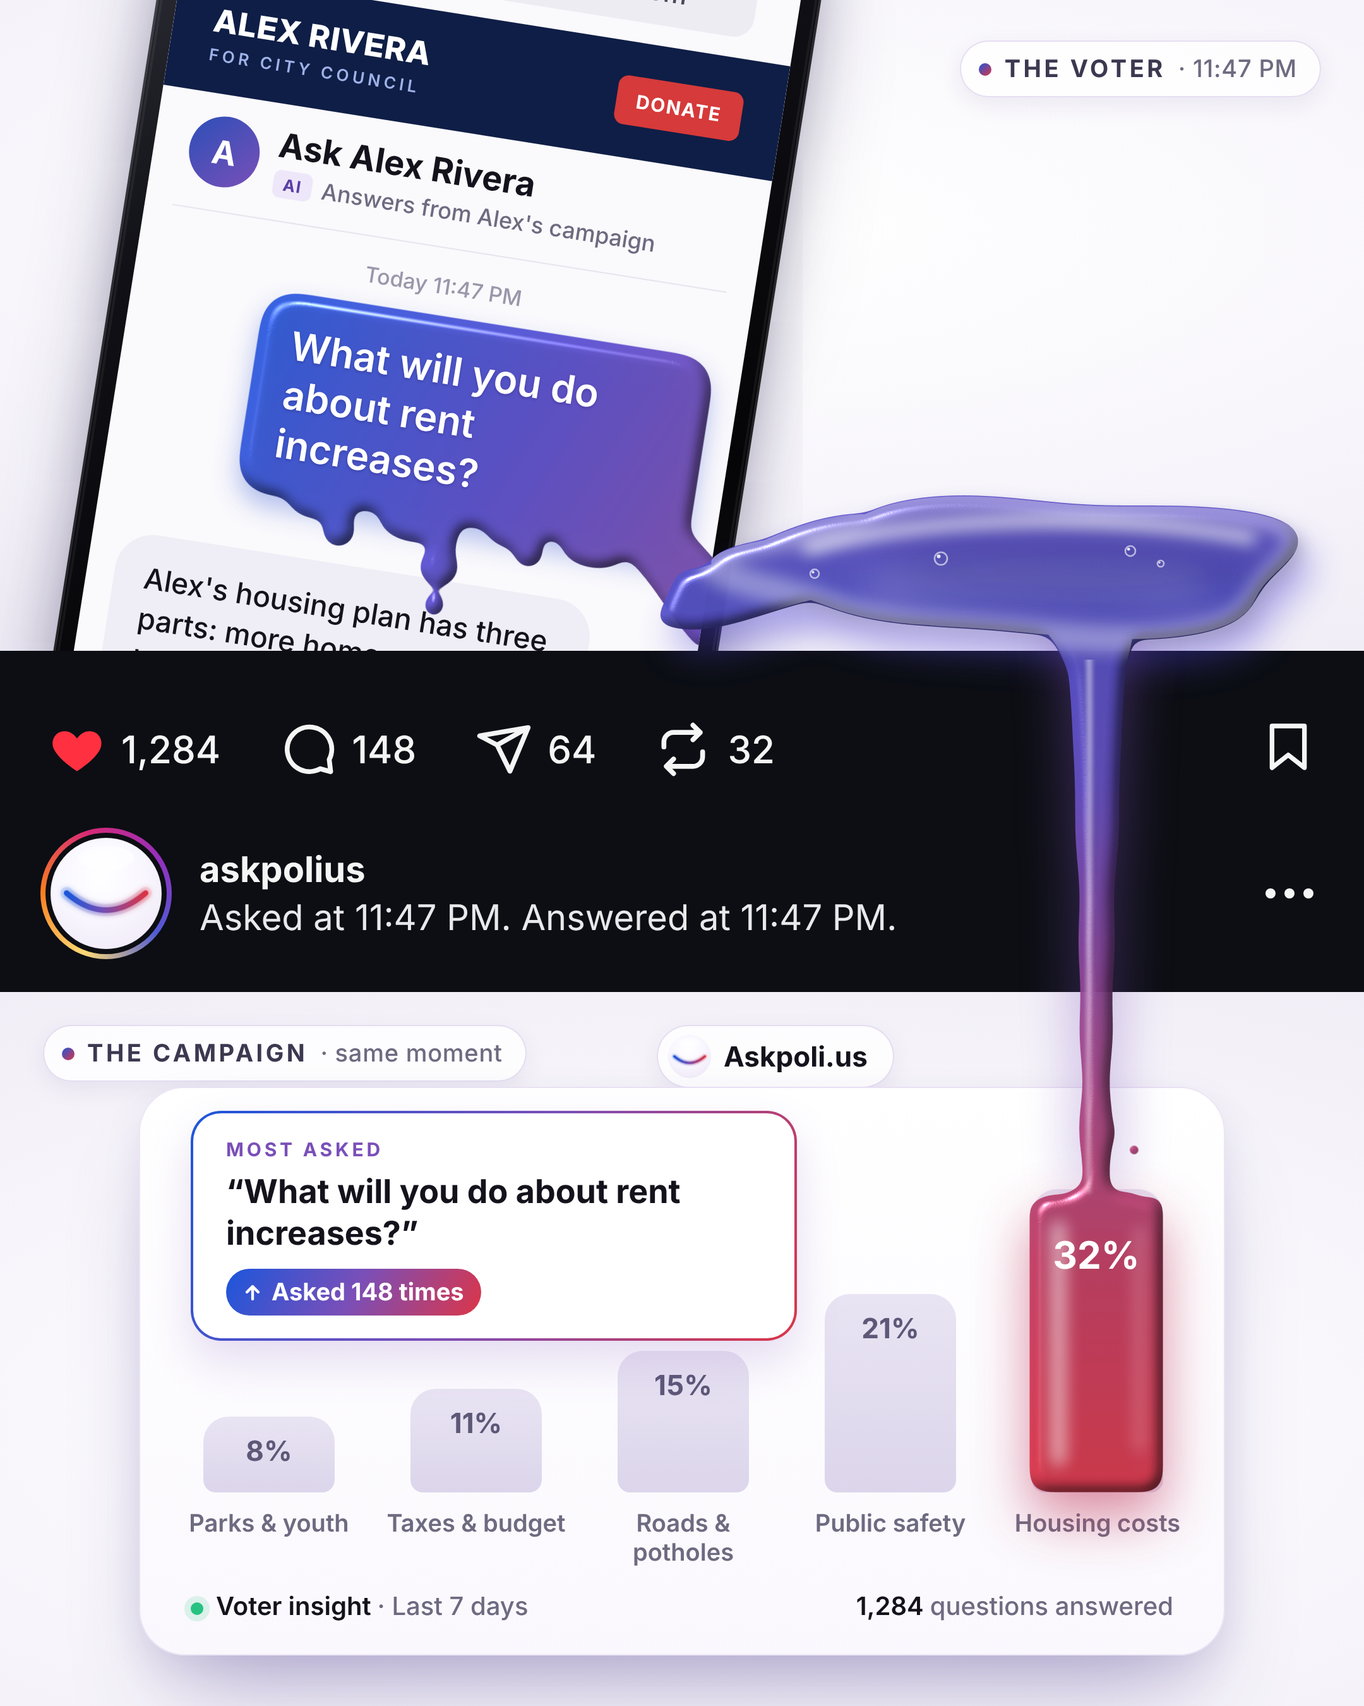
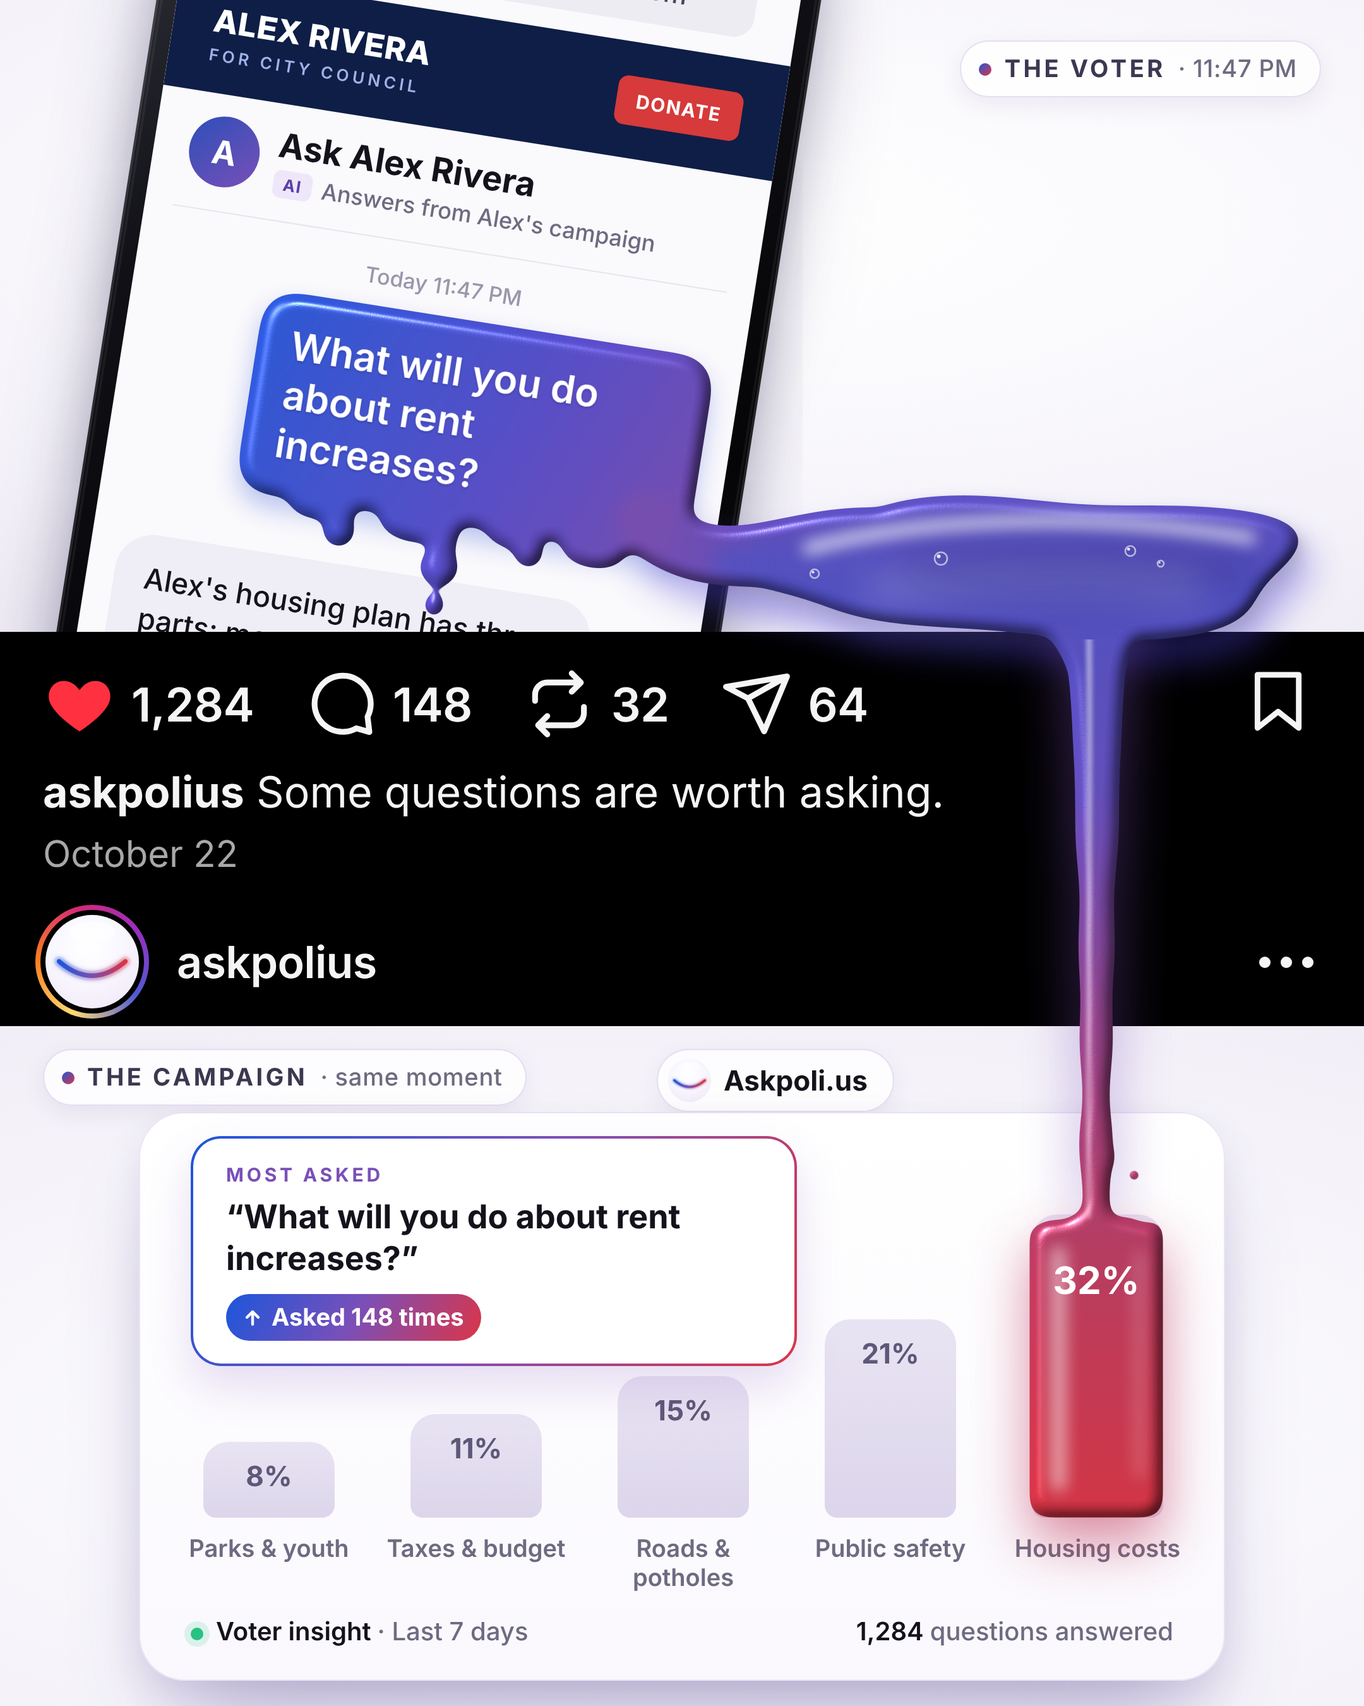
Slide 1: single continuous liquid body, Instagram-accurate fake post row
Claude-Session: https://claude.ai/code/session_01SShT3dbSYkGvjEDFvWeJak

diff --git a/carousel/source/post.html b/carousel/source/post.html
@@ -22,8 +22,8 @@
   /* ---------- the two fake "posts" share one studio backdrop ---------- */
   .studio { position: absolute; left: 0; width: 1080px; overflow: hidden;
     background: radial-gradient(120% 90% at 55% 35%, #FFFFFF 0%, #F6F4FA 55%, #ECE8F3 100%); }
-  #top { top: 0; height: 515px; }
-  #bottom { top: 785px; height: 565px;
+  #top { top: 0; height: 500px; }
+  #bottom { top: 812px; height: 538px;
     background: radial-gradient(120% 90% at 50% 60%, #FFFFFF 0%, #F6F4FA 55%, #ECE8F3 100%); }
 
   .tag { position: absolute; display: flex; align-items: center; gap: 10px; padding: 10px 18px 10px 14px; border-radius: 999px;
@@ -60,28 +60,31 @@
   #ask { position: relative; z-index: 3; margin-left: auto; width: 360px; padding: 22px 26px; border-radius: 30px 30px 8px 30px;
     background: transparent; color: #fff; font: 600 31px/1.25 'Inter'; text-shadow: 0 1px 2px rgba(20,10,80,0.25); }
   .reply { position: relative; }
-  #meltIn { position: absolute; left: 0; top: 0; }
   .reply { margin-top: 46px; width: 380px; padding: 20px 24px; border-radius: 30px 30px 30px 8px; background: #EFEDF5; color: var(--ink); font: 500 23px/1.38 'Inter'; }
   .src { display: inline-flex; gap: 8px; align-items: center; margin-top: 12px; font: 600 17px 'Inter'; color: #5B3FA6; background: #fff; border: 1px solid #E1DAF2; padding: 7px 12px; border-radius: 10px; }
 
   /* ---------- fake Instagram row ---------- */
-  #igbar { position: absolute; top: 515px; left: 0; width: 1080px; height: 270px; background: #0C0E13; color: #F5F5F5; }
-  .actions { position: absolute; top: 54px; left: 38px; right: 38px; display: flex; align-items: center; }
-  .act { display: flex; align-items: center; gap: 12px; margin-right: 46px; font: 500 30px 'Inter'; }
-  .act svg { width: 46px; height: 46px; }
+  /* sized from a real iPhone Instagram screenshot (UI scaled to a 1080-wide image) */
+  #igbar { position: absolute; top: 500px; left: 0; width: 1080px; height: 312px; background: #000; color: #F5F5F5; }
+  .actions { position: absolute; top: 26px; left: 34px; right: 40px; height: 62px; display: flex; align-items: center; }
+  .act { display: flex; align-items: center; gap: 12px; margin-right: 40px; font: 600 37px 'Inter'; letter-spacing: -0.01em; }
+  .act svg { width: 58px; height: 58px; }
   .save { margin-left: auto; }
-  .save svg { width: 44px; height: 44px; }
-  .who { position: absolute; top: 140px; left: 32px; right: 40px; display: flex; align-items: center; gap: 22px; }
-  .ring { width: 104px; height: 104px; border-radius: 50%; padding: 4px; background: conic-gradient(from 200deg, #FEDA75, #FA7E1E, #D62976, #962FBF, #4F5BD5, #FEDA75); }
-  .ring > div { width: 100%; height: 100%; border-radius: 50%; padding: 4px; background: #0C0E13; }
+  .save svg { width: 56px; height: 56px; }
+  .cap { position: absolute; top: 106px; left: 34px; right: 230px; font: 400 34px/1.25 'Inter'; white-space: nowrap; overflow: hidden; }
+  .cap b { font-weight: 700; }
+  .cap span { color: #A8A8A8; margin-left: 4px; }
+  .date { position: absolute; top: 158px; left: 34px; font: 400 29px 'Inter'; color: #A8A8A8; }
+  .who { position: absolute; top: 216px; left: 28px; right: 40px; height: 90px; display: flex; align-items: center; gap: 22px; }
+  .ring { width: 90px; height: 90px; border-radius: 50%; padding: 4px; background: conic-gradient(from 200deg, #FEDA75, #FA7E1E, #D62976, #962FBF, #4F5BD5, #FEDA75); }
+  .ring > div { width: 100%; height: 100%; border-radius: 50%; padding: 4px; background: #000; }
   .ring img { width: 100%; height: 100%; border-radius: 50%; display: block; object-fit: cover; }
-  .who h4 { font: 700 28px 'Inter'; }
-  .who p { font: 400 28px 'Inter'; color: #E9E9EC; margin-top: 4px; }
-  .more { margin-left: auto; display: flex; gap: 7px; }
-  .more i { width: 8px; height: 8px; border-radius: 50%; background: #F5F5F5; }
+  .who h4 { font: 600 35px 'Inter'; letter-spacing: -0.01em; }
+  .more { margin-left: auto; display: flex; gap: 8px; }
+  .more i { width: 9px; height: 9px; border-radius: 50%; background: #F5F5F5; }
 
   /* ---------- insight chart card ---------- */
-  #card { position: absolute; left: 110px; top: 860px; width: 860px; height: 450px; border-radius: 36px;
+  #card { position: absolute; left: 110px; top: 880px; width: 860px; height: 450px; border-radius: 36px;
     background: linear-gradient(180deg, rgba(255,255,255,0.96), rgba(250,248,253,0.96));
     border: 1px solid rgba(122,79,184,0.14);
     box-shadow: 0 50px 80px -30px rgba(60,40,130,0.35), 0 12px 30px rgba(60,40,130,0.10); }
@@ -128,7 +131,6 @@
         </div>
         <div class="site"><div><b>ALEX RIVERA</b><small>FOR CITY COUNCIL</small></div><div class="donate">DONATE</div></div>
         <div class="chat">
-          <svg id="meltIn" width="488" height="1008" style="position:absolute;left:-22px;top:-262px;z-index:2;pointer-events:none"></svg>
           <div class="chathead"><div class="av">A</div><div><h3>Ask Alex Rivera</h3><p><em>AI</em>Answers from Alex's campaign</p></div></div>
           <div class="ts">Today 11:47 PM</div>
           <div id="ask">What will you do about rent increases?</div>
@@ -143,24 +145,28 @@
 
   <!-- fake Instagram row -->
   <div id="igbar">
+    <!-- post 1 footer: like, comment, repost, share ... save (Instagram's order) -->
     <div class="actions">
       <div class="act"><svg viewBox="0 0 24 24"><path d="M12 21s-7.5-4.6-9.6-9.2C.9 8.4 3 4.5 6.8 4.5c2.2 0 3.9 1.2 5.2 3 1.3-1.8 3-3 5.2-3 3.8 0 5.9 3.9 4.4 7.3C19.5 16.4 12 21 12 21z" fill="#FF3040"/></svg>1,284</div>
-      <div class="act"><svg viewBox="0 0 24 24" fill="none" stroke="#F5F5F5" stroke-width="2" stroke-linejoin="round"><path d="M20.7 16.2A9.2 9.2 0 1 0 17 20l4.3 1.2z"/></svg>148</div>
-      <div class="act"><svg viewBox="0 0 24 24" fill="none" stroke="#F5F5F5" stroke-width="2" stroke-linejoin="round"><path d="M22 3 9.2 10.2M22 3l-7.5 18-5.3-10.8L2 6.4z"/></svg>64</div>
-      <div class="act"><svg viewBox="0 0 24 24" fill="none" stroke="#F5F5F5" stroke-width="2" stroke-linecap="round" stroke-linejoin="round"><path d="M4 11V9a4 4 0 0 1 4-4h11M16 2l3 3-3 3M20 13v2a4 4 0 0 1-4 4H5M8 22l-3-3 3-3"/></svg>32</div>
-      <div class="save"><svg viewBox="0 0 24 24" fill="none" stroke="#F5F5F5" stroke-width="2" stroke-linejoin="round"><path d="M19 21l-7-5.5L5 21V3h14z"/></svg></div>
+      <div class="act"><svg viewBox="0 0 24 24" fill="none" stroke="#F5F5F5" stroke-width="1.9" stroke-linejoin="round"><path d="M20.7 16.2A9.2 9.2 0 1 0 17 20l4.3 1.2z"/></svg>148</div>
+      <div class="act"><svg viewBox="0 0 24 24" fill="none" stroke="#F5F5F5" stroke-width="1.9" stroke-linecap="round" stroke-linejoin="round"><path d="M4 11V9a4 4 0 0 1 4-4h11M16 2l3 3-3 3M20 13v2a4 4 0 0 1-4 4H5M8 22l-3-3 3-3"/></svg>32</div>
+      <div class="act"><svg viewBox="0 0 24 24" fill="none" stroke="#F5F5F5" stroke-width="1.9" stroke-linejoin="round"><path d="M22 3 9.2 10.2M22 3l-7.5 18-5.3-10.8L2 6.4z"/></svg>64</div>
+      <div class="save"><svg viewBox="0 0 24 24" fill="none" stroke="#F5F5F5" stroke-width="1.9" stroke-linejoin="round"><path d="M19 21l-7-5.5L5 21V3h14z"/></svg></div>
     </div>
+    <div class="cap"><b>askpolius</b> Some questions are worth asking.</div>
+    <div class="date">October 22</div>
+    <!-- post 2 header -->
     <div class="who">
       <div class="ring"><div><img src="poli-orb.png"></div></div>
-      <div><h4>askpolius</h4><p>Asked at 11:47 PM. Answered at 11:47 PM.</p></div>
+      <h4>askpolius</h4>
       <div class="more"><i></i><i></i><i></i></div>
     </div>
   </div>
 
   <!-- BOTTOM "POST": the campaign -->
   <div class="studio" id="bottom">
-    <div class="tag" style="left:34px; top:26px"><i></i>The campaign <span>· same moment</span></div>
-    <div class="tag brandtag" style="left:520px; top:26px"><img src="poli-orb.png">Askpoli.us</div>
+    <div class="tag" style="left:34px; top:18px"><i></i>The campaign <span>· same moment</span></div>
+    <div class="tag brandtag" style="left:520px; top:18px"><img src="poli-orb.png">Askpoli.us</div>
   </div>
   <div id="card">
     <div class="bars" id="bars"></div>
@@ -192,7 +198,7 @@ DATA.forEach(([name, v], i) => {
   const lab = document.createElement('div'); lab.className = 'lab';
   lab.style.left = (50 + x + BAR_W / 2 - 75) + 'px'; lab.textContent = name;
   document.getElementById('card').appendChild(lab);
-  barGeom.push({ x: 110 + 50 + x, w: BAR_W, top: 860 + 70 + 250 - h, bottom: 860 + 70 + 250 });
+  barGeom.push({ x: 110 + 50 + x, w: BAR_W, top: 880 + 70 + 250 - h, bottom: 880 + 70 + 250 });
 });
 // chart labels sit inside the bar area bottom; move the bar block up a little to make room
 document.querySelectorAll('.lab').forEach(l => l.style.top = '334px');
@@ -207,7 +213,7 @@ function liquidFilter(parent, id, w, h) {
   el('feGaussianBlur', { in: 'goo', stdDeviation: 5, result: 'hm' }, f);
   const d = el('feDiffuseLighting', { in: 'hm', surfaceScale: 5, diffuseConstant: 1.15, 'lighting-color': '#ffffff', result: 'diff' }, f);
   el('feDistantLight', { azimuth: 225, elevation: 52 }, d);
-  el('feComposite', { in: 'goo', in2: 'diff', operator: 'arithmetic', k1: 0.78, k2: 0.16, k3: 0, k4: 0, result: 'shaded' }, f);
+  el('feComposite', { in: 'goo', in2: 'diff', operator: 'arithmetic', k1: 0.8, k2: 0.2, k3: 0, k4: 0, result: 'shaded' }, f);
   const sp = el('feSpecularLighting', { in: 'hm', surfaceScale: 6, specularConstant: 0.75, specularExponent: 45, 'lighting-color': '#ffffff', result: 'spec' }, f);
   el('feDistantLight', { azimuth: 225, elevation: 48 }, sp);
   el('feComposite', { in: 'spec', in2: 'goo', operator: 'in', result: 'specIn' }, f);
@@ -256,49 +262,30 @@ const drop = (x, y0, len, w, parent, fill) => {                  // a hanging dr
   el('circle', { cx: x, cy: y0 + len, r: w * 0.62, fill }, parent);
 };
 
-// ---------- layer 1: the bubble melting, inside the phone screen (screen-local coordinates) ----------
-const mi = document.getElementById('meltIn');
+// ---------- geometry: the question bubble, in phone-screen coordinates ----------
 const ask = document.getElementById('ask'), chat = ask.parentElement;
 const bx = chat.offsetLeft + ask.offsetLeft, by = chat.offsetTop + ask.offsetTop, bw = ask.offsetWidth, bh = ask.offsetHeight;
-const SW = 488;
-const mdefs = el('defs', {}, mi);
-grad(mdefs, 'bub', bx, by, bx + bw, by + bh, [['0', '#2A5BE0'], ['0.6', '#5B4FD0'], ['1', '#7A4FB8']]);
-liquidFilter(mdefs, 'liqIn', 488, 1008);
-blurF(mdefs, 'sIn', 10);
-const bubD = `M${bx + 30} ${by} H${bx + bw - 30} Q${bx + bw} ${by} ${bx + bw} ${by + 30} V${bx ? by + bh - 8 : 0} Q${bx + bw} ${by + bh} ${bx + bw - 8} ${by + bh} H${bx + 30} Q${bx} ${by + bh} ${bx} ${by + bh - 30} V${by + 30} Q${bx} ${by} ${bx + 30} ${by} Z`;
-// soft coloured shadow on the screen under the bubble and its drips
-const shIn = el('g', { filter: 'url(#sIn)', opacity: 0.35, transform: 'translate(0 10)' }, mi);
-el('path', { d: bubD, fill: '#2A4FD0' }, shIn);
-const gIn = el('g', { filter: 'url(#liqIn)' }, mi);
-el('path', { d: bubD, fill: 'url(#bub)' }, gIn);
-// the lower edge sags: soft bulges just below it
-[[0.18, 7, 12], [0.40, 10, 15], [0.62, 6, 12], [0.80, 9, 14]].forEach(([f, dy, rr]) => el('ellipse', { cx: bx + bw * f, cy: by + bh + dy - 6, rx: rr * 1.8, ry: rr, fill: 'url(#bub)' }, gIn));
-// hanging drips of different lengths, one letting go of a droplet
-drop(bx + bw * 0.24, by + bh, 20, 20, gIn, 'url(#bub)');
-drop(bx + bw * 0.47, by + bh, 36, 24, gIn, 'url(#bub)');
-el('ellipse', { cx: bx + bw * 0.47 + 1, cy: by + bh + 66, rx: 8, ry: 10, fill: 'url(#bub)' }, gIn);
-drop(bx + bw * 0.66, by + bh, 14, 18, gIn, 'url(#bub)');
-// the bottom-right corner spills sideways off the screen edge
-el('path', { d: ribbon([[bx + bw - 40, by + bh - 20], [bx + bw, by + bh + 4], [SW - 14, by + bh + 22], [SW + 20, by + bh + 46]], t => 46 + 10 * t), fill: 'url(#bub)' }, gIn);
-
-// screen-local -> page coordinates (phone: left 70, top -160, 520x1040, rotated 9deg about its centre)
+// screen-local -> page (phone: left 70, top -160, 520x1040, rotated 9deg about its centre; screen inset 16)
 const PH = { x: 70, y: -160, w: 520, h: 1040, a: 9 * Math.PI / 180 };
-const toPage = (sx, sy) => { const px = sx + 16 - PH.w / 2, py = sy + 16 - PH.h / 2;
-  return [PH.x + PH.w / 2 + px * Math.cos(PH.a) - py * Math.sin(PH.a), PH.y + PH.h / 2 + px * Math.sin(PH.a) + py * Math.cos(PH.a)]; };
+const ca = Math.cos(PH.a), sa = Math.sin(PH.a), ox = 16 - PH.w / 2, oy = 16 - PH.h / 2;
+const toPage = (sx, sy) => [PH.x + PH.w / 2 + (sx + ox) * ca - (sy + oy) * sa, PH.y + PH.h / 2 + (sx + ox) * sa + (sy + oy) * ca];
+const SCREEN = `matrix(${ca} ${sa} ${-sa} ${ca} ${PH.x + PH.w / 2 + ox * ca - oy * sa} ${PH.y + PH.h / 2 + ox * sa + oy * ca})`;
 
-// ---------- layer 2: spill over the bezel, puddle, pour, filled bar (page coordinates) ----------
 const housing = barGeom[4];
 const SX = housing.x + housing.w / 2;
 const PCX = 815, PCY = 448;
 const defs = el('defs', {});
-// colour follows the liquid's journey: the bubble's purple -> indigo puddle -> purple pour -> red in the chart
+// colour follows the liquid's journey: indigo puddle -> purple pour -> red in the chart
 grad(defs, 'liq', 0, 330, 0, 1190, [['0', '#6B4FC3'], ['0.16', '#5352CA'], ['0.34', '#6450C3'], ['0.56', '#9A4590'], ['0.78', '#C23C62'], ['1', '#DC3547']]);
+grad(defs, 'bub', bx, by, bx + bw, by + bh, [['0', '#2A5BE0'], ['0.6', '#5B4FD0'], ['1', '#7A4FB8']]);   // used in screen space
 liquidFilter(defs, 'liqOut', 1080, 1350);
-blurF(defs, 'b2x', 1.5); blurF(defs, 'b6', 6); blurF(defs, 'b14', 14); blurF(defs, 'b22', 22);
-
-const S0 = toPage(SW - 30, by + bh + 30);      // starts just inside the screen so it overlaps the in-screen spill
-const spill = [S0, [S0[0] + 40, S0[1] + 18], [PCX - 175, PCY - 26], [PCX - 110, PCY - 4]];
-const spillD = ribbon(spill, t => 44 + 4 * Math.sin(t * Math.PI) + 26 * t * t);
+blurF(defs, 'b2x', 1.5); blurF(defs, 'b6', 6); blurF(defs, 'b10', 10); blurF(defs, 'b14', 14); blurF(defs, 'b22', 22);
+const bubD = `M${bx + 30} ${by} H${bx + bw - 30} Q${bx + bw} ${by} ${bx + bw} ${by + 30} V${by + bh - 8} Q${bx + bw} ${by + bh} ${bx + bw - 8} ${by + bh} H${bx + 30} Q${bx} ${by + bh} ${bx} ${by + bh - 30} V${by + 30} Q${bx} ${by} ${bx + 30} ${by} Z`;
+const S0 = toPage(bx + bw - 34, by + bh - 26);                 // deep inside the bubble's lower-right corner
+const S1 = toPage(bx + bw + 30, by + bh + 20);                 // over the screen edge and bezel
+const spill = [S0, S1, [PCX - 190, PCY - 30], [PCX - 105, PCY - 2]];
+const spillD = ribbon(spill, t => 50 - 10 * Math.sin(t * Math.PI) + 36 * t * t);
+grad(defs, 'spillg', S0[0], S0[1], PCX - 105, PCY, [['0', '#7A4FB8'], ['0.45', '#664FC2'], ['1', '#5752C9']]);
 const pud = blob(PCX, PCY, 222, 54, 23, 5, 0.09);
 const tongue = ribbon([[SX - 24, PCY - 6], [SX - 8, 474], [SX, 496], [SX, 528]], t => 110 - 64 * t);
 const pour = [[SX, 480], [SX + 2, 640], [SX - 1, 820], [SX, housing.top + 4]];
@@ -310,6 +297,8 @@ for (let i = 0; i <= 24; i++) { const x = hb.x + hb.w * i / 24, dx = (x - SX) / 
 barD += ` L${hb.x + hb.w} ${hb.bottom - 12} Q${hb.x + hb.w} ${hb.bottom} ${hb.x + hb.w - 12} ${hb.bottom} L${hb.x + 12} ${hb.bottom} Q${hb.x} ${hb.bottom} ${hb.x} ${hb.bottom - 12} Z`;
 
 // coloured, translucent shadows: light passing through tinted liquid onto the white table / card
+const shB = el('g', { transform: SCREEN, opacity: 0.32 });
+el('path', { d: bubD, fill: '#2A4FD0', filter: 'url(#b10)', transform: 'translate(0 10)' }, shB);
 const shOut = el('g', { opacity: 0.42 });
 el('path', { d: pud, fill: '#4B3FD0', filter: 'url(#b14)', transform: 'translate(10 20)' }, shOut);
 el('path', { d: spillD, fill: '#4B3FD0', filter: 'url(#b14)', transform: 'translate(10 18)' }, shOut);
@@ -319,7 +308,17 @@ el('path', { d: barD, fill: '#C23C62', filter: 'url(#b22)', transform: 'translat
 el('path', { d: pourD, fill: '#7A4FB8', filter: 'url(#b22)', opacity: 0.55 });   // glow of the stream over the dark row
 
 const gOut = el('g', { filter: 'url(#liqOut)' });
-el('path', { d: spillD, fill: 'url(#liq)' }, gOut);
+// the bubble and its sagging, dripping lower edge (screen space, same goo body as everything else)
+const gB = el('g', { transform: SCREEN }, gOut);
+el('path', { d: bubD, fill: 'url(#bub)' }, gB);
+[[0.18, 7, 12], [0.40, 10, 15], [0.62, 6, 12], [0.80, 9, 14]].forEach(([f, dy, rr]) => el('ellipse', { cx: bx + bw * f, cy: by + bh + dy - 6, rx: rr * 1.8, ry: rr, fill: 'url(#bub)' }, gB));
+drop(bx + bw * 0.24, by + bh, 20, 20, gB, 'url(#bub)');
+drop(bx + bw * 0.47, by + bh, 36, 24, gB, 'url(#bub)');
+el('ellipse', { cx: bx + bw * 0.47 + 1, cy: by + bh + 66, rx: 8, ry: 10, fill: 'url(#bub)' }, gB);
+drop(bx + bw * 0.66, by + bh, 14, 18, gB, 'url(#bub)');
+// the corner pours out sideways: a single body from inside the bubble to the puddle
+el('path', { d: spillD, fill: 'url(#spillg)' }, gOut);
+el('circle', { cx: S0[0], cy: S0[1], r: 25, fill: '#7A4FB8' }, gOut);
 el('path', { d: pud, fill: 'url(#liq)' }, gOut);
 el('path', { d: tongue, fill: 'url(#liq)' }, gOut);
 el('path', { d: pourD, fill: 'url(#liq)' }, gOut);
@@ -329,7 +328,6 @@ el('path', { d: barD, fill: 'url(#liq)' }, gOut);
 // surface reflections (studio softbox) + thin, see-through edges, clipped to the liquid
 const cp = el('clipPath', { id: 'pudClip' }, defs); el('path', { d: pud }, cp); el('path', { d: spillD }, cp); el('path', { d: tongue }, cp);
 const refl = el('g', { 'clip-path': 'url(#pudClip)' });
-el('path', { d: pud, fill: 'none', stroke: '#ffffff', 'stroke-opacity': 0.35, 'stroke-width': 22, filter: 'url(#b6)' }, refl);     // thin edge lets the table show through
 el('path', { d: `M${PCX - 175} ${PCY - 14} C${PCX - 80} ${PCY - 40} ${PCX + 60} ${PCY - 42} ${PCX + 175} ${PCY - 22}`, fill: 'none', stroke: '#fff', 'stroke-opacity': 0.8, 'stroke-width': 9, 'stroke-linecap': 'round', filter: 'url(#b6)' }, refl);
 el('path', { d: `M${PCX - 120} ${PCY + 18} C${PCX - 40} ${PCY + 8} ${PCX + 40} ${PCY + 8} ${PCX + 130} ${PCY + 16}`, fill: 'none', stroke: '#fff', 'stroke-opacity': 0.28, 'stroke-width': 16, 'stroke-linecap': 'round', filter: 'url(#b14)' }, refl);
 el('ellipse', { cx: PCX + 40, cy: PCY + 4, rx: 150, ry: 26, fill: '#241a6e', opacity: 0.22, filter: 'url(#b14)' }, refl);           // deeper colour in the middle
@@ -339,7 +337,7 @@ const rb = el('g', { 'clip-path': 'url(#barClip)' });
 el('rect', { x: hb.x + 16, y: hb.top + 26, width: 12, height: hb.bottom - hb.top - 46, rx: 6, fill: '#fff', opacity: 0.55, filter: 'url(#b6)' }, rb);
 el('rect', { x: hb.x + hb.w - 22, y: hb.top + 30, width: 8, height: hb.bottom - hb.top - 60, rx: 4, fill: '#fff', opacity: 0.22, filter: 'url(#b6)' }, rb);
 // the stream: a fine bright core highlight
-const cs = el('clipPath', { id: 'streamClip' }, defs); el('rect', { x: 0, y: 522, width: 1080, height: 900 }, cs);
+const cs = el('clipPath', { id: 'streamClip' }, defs); el('rect', { x: 0, y: 506, width: 1080, height: 900 }, cs);
 el('path', { d: ribbon(pour, t => 3 + 2 * (1 - t)), fill: '#fff', opacity: 0.45, filter: 'url(#b2x)', transform: 'translate(-6 0)', 'clip-path': 'url(#streamClip)' });
 // a few tiny air bubbles trapped in the puddle
 [[PCX - 70, PCY - 6, 5], [PCX + 80, PCY - 12, 4], [PCX + 104, PCY - 2, 2.5], [PCX - 170, PCY + 6, 3.5]].forEach(([x, y, rr]) => {
@@ -347,6 +345,13 @@ el('path', { d: ribbon(pour, t => 3 + 2 * (1 - t)), fill: '#fff', opacity: 0.45,
   el('circle', { cx: x - rr * 0.35, cy: y - rr * 0.35, r: rr * 0.3, fill: '#fff', opacity: 0.85 });
 });
 
+// the bubble's words float on top of the liquid: a text-only clone of the phone
+const ghost = document.getElementById('phone').cloneNode(true);
+ghost.removeAttribute('id');
+Object.assign(ghost.style, { position: 'absolute', left: PH.x + 'px', top: PH.y + 'px', width: PH.w + 'px', height: PH.h + 'px',
+  transform: 'rotate(9deg)', visibility: 'hidden', background: 'none', boxShadow: 'none', zIndex: 5 });
+ghost.querySelector('#ask').style.visibility = 'visible';   // ids kept so the same CSS lays the text out identically
+document.getElementById('post').appendChild(ghost);
 // percentage label inside the liquid bar
 const pt = el('text', { x: SX, y: hb.top + 64, 'text-anchor': 'middle', fill: '#fff', 'font-family': 'Inter', 'font-weight': 700, 'font-size': 30 });
 pt.textContent = '32%';
